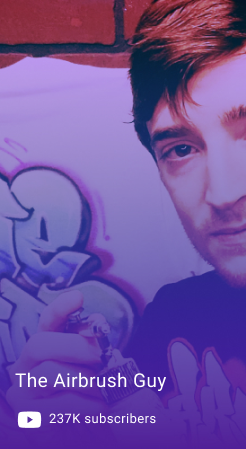
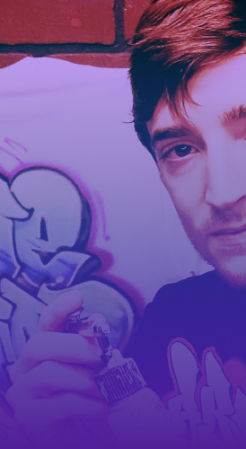
new pap

diff --git a/index.html b/index.html
@@ -442,8 +442,12 @@
             <div class="featured-general">
                 <div class="featured-img-one">
 
-                        <img src="./img/featured-one.png" alt="img">
+                    <div class="div-one">
+                        <h3>SMOE NOVA</h3>
+                        <h6><ion-icon name="logo-youtube"></ion-icon>
+                            188K subscribers</h6>
 
+                    </div>
 
                     <div class="featured-text-one">
 
@@ -452,10 +456,10 @@
                         <h2>Going Wild with Graffiti Letters</h2>
 
                         <p>
-                            Style writing is so much fun. I'll teach you the tools from my 20 years of practicing with
-                            letters.Learn how to create new solutions, new letters, get more creative, and how to clean
+                            Style writing is so much fun. I'll teach you the tools from my practicing with
+                            letters.Learn how to, new letters, get more creative, and how to clean
                             up
-                            the style to get rid of all the useless nonsense.
+                            the style to get of all the useless nonsense.
                         </p>
 
                         <div class="featured-btn">
@@ -472,7 +476,12 @@
 
                 <div class="featured-img-one">
 
-                    <img src="./img/featured-two.png" alt="img">
+                    <div class="div-two">
+                        <h3>The Airbrush Guy</h3>
+                        <h6><ion-icon name="logo-youtube"></ion-icon>
+                            237K subscribers</h6>
+
+                    </div>
 
                     <div class="featured-text-one">
 

diff --git a/css/style.css b/css/style.css
@@ -765,7 +765,6 @@ button {
 /*<!--offer-end-->*/
 
 /*<!--featured-start-->*/
-
 #featured {
     background: #0A0A0A;
     padding-bottom: 170px;
@@ -804,6 +803,7 @@ button {
     font-weight: 400;
     line-height: 20px;
     text-transform: uppercase;
+    padding-top: 20px;
 }
 
 .featured-img-block h3{
@@ -889,6 +889,76 @@ button {
     justify-content: space-between;
 }
 
+
+.div-one{
+    background: url("../img/featured-one.png") no-repeat center/cover;
+    width: 260px;
+    height: 520px;
+    flex-shrink: 0;
+    display: flex;
+    flex-direction: column;
+    justify-content: end;
+}
+
+.div-one h3{
+    color: #FFF;
+    font-size: 25px;
+    font-weight: 400;
+    line-height: 20px;
+    padding-left: 15px;
+}
+
+.div-one h6{
+    color: #FFF;
+    font-size: 16px;
+    font-weight: 400;
+    line-height: 20px;
+    padding:18px 0 20px 15px;
+    display: flex;
+}
+
+.div-one h6 ion-icon{
+    font-size: 20px;
+}
+
+.div-two{
+    background: url("../img/featured-two.png") no-repeat center/cover;
+    width: 260px;
+    height: 520px;
+    flex-shrink: 0;
+    display: flex;
+    flex-direction: column;
+    justify-content: end;
+}
+
+.div-two h3{
+    color: #FFF;
+    font-size: 25px;
+    font-weight: 400;
+    line-height: 20px;
+    padding-left: 15px;
+}
+
+.div-two h6{
+    color: #FFF;
+    font-size: 16px;
+    font-weight: 400;
+    line-height: 20px;
+    padding:18px 0 20px 15px;
+    display: flex;
+}
+
+.div-two h6 ion-icon{
+    font-size: 20px;
+}
+
+.featured-img-one button:hover{
+    background: forestgreen;
+    width: 200px;
+    height: 30px;
+    border-radius: 15px;
+    border:3px solid #FFFFFF ;
+}
 /*<!--featured-end-->*/
 
 /*<!--contact-start-->*/
